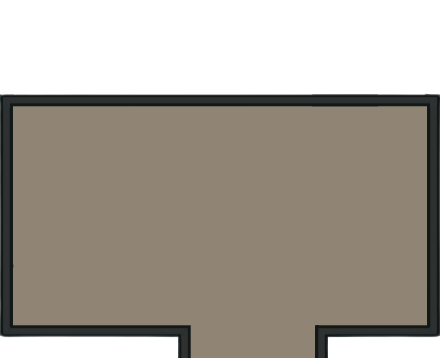
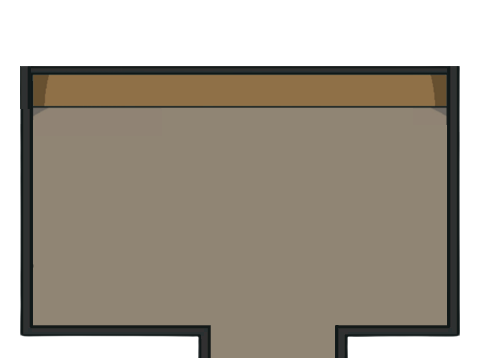
通路を作成

Changed region(s): [[0.0, 0.1844, 1.0, 0.9525], [0.6795, 0.8911, 0.7682, 1.0], [0.3841, 0.8911, 0.4432, 1.0]]

diff --git a/SuperNewRoles/Map/SetPosition.cs b/SuperNewRoles/Map/SetPosition.cs
@@ -68,7 +68,7 @@ namespace SuperNewRoles.Map
                            new Vector2[] {
                                new Vector2(-6f, 9f),new Vector2(-11.65f, 9f),new Vector2(-11.65f, 10.5f),new Vector2(-10f, 10.5f),new Vector2(-10f, 13f),new Vector2(-16f, 13f),new Vector2(-16f, 10.5f),new Vector2(-13.45f, 10.5f),new Vector2(-13.45f, 9f),new Vector2(-19f, 9f),
                                new Vector2(-19f, 13f),new Vector2(-21.7f, 13f),new Vector2(-21.7f, 16f), new Vector2(-19f, 16f), new Vector2(-19f, 20f), new Vector2(-13.45f, 20f), new Vector2(-13.45f, 18.5f), new Vector2(-16f, 18.5f), new Vector2(-16f, 15.8f), new Vector2(-10f, 15.8f),
-                               new Vector2(-10f, 18.5f), new Vector2(-11.65f, 18.5f), new Vector2(-11.65f, 20f), new Vector2(-6f, 20f),new Vector2(-6f, 9f)
+                               new Vector2(-10f, 18.5f), new Vector2(-11.65f, 18.5f), new Vector2(-11.65f, 20f), new Vector2(-6.15f, 20f),new Vector2(-6.15f, 9f)
                            };
 
                     SuperNewRolesPlugin.Logger.LogInfo("オールドア:" + ShipStatus.Instance.AllDoors.Length);
@@ -105,33 +105,45 @@ namespace SuperNewRoles.Map
 
                     SpriteRenderer CommsRoomWalls = ShipStatus.Instantiate(CafeteriaWalls).gameObject.GetComponent<SpriteRenderer>();
                     CommsRoomWalls.name = "CommsRoomWalls";
-                    CommsRoomWalls.sprite = Agartha.ImageManager.AgarthagetSprite("Room_Up");
+                    CommsRoomWalls.sprite = Agartha.ImageManager.Room_Up;
                     CommsRoomWalls.transform.position = new Vector3(-0.35f, 22.32f, 4f);
                     CommsRoomWalls.transform.localScale = new Vector3(1.41f, 1.35f, 1.35f);
 
                     SpriteRenderer O2RoomWalls = ShipStatus.Instantiate(CafeteriaWalls).gameObject.GetComponent<SpriteRenderer>();
                     O2RoomWalls.name = "O2RoomWalls";
-                    O2RoomWalls.sprite = Agartha.ImageManager.AgarthagetSprite("Room_Up");
+                    O2RoomWalls.sprite = Agartha.ImageManager.Room_Up;
                     O2RoomWalls.transform.position = new Vector3(-0.4f, 8.7f, 4f);
                     O2RoomWalls.transform.localScale = new Vector3(1.7f, 1.25f, 1.35f);
 
                     SpriteRenderer MedBayRoomWalls = ShipStatus.Instantiate(CafeteriaWalls).gameObject.GetComponent<SpriteRenderer>();
                     MedBayRoomWalls.name = "MedBayRoomWalls";
-                    MedBayRoomWalls.sprite = Agartha.ImageManager.AgarthagetSprite("Room_Up");
-                    MedBayRoomWalls.transform.position = new Vector3(-0.4f, 13.25f, 4f);
-                    MedBayRoomWalls.transform.localScale = new Vector3(1.7f, -1.3f, 1.35f);
+                    MedBayRoomWalls.sprite = Agartha.ImageManager.Room_Down;
+                    MedBayRoomWalls.transform.position = new Vector3(-0.4f, 13.35f, 4f);
+                    MedBayRoomWalls.transform.localScale = new Vector3(1.7f, 1.3f, 1.35f);
 
                     SpriteRenderer ToolRoomWalls = ShipStatus.Instantiate(CafeteriaWalls).gameObject.GetComponent<SpriteRenderer>();
                     ToolRoomWalls.name = "ToolRoomWalls";
-                    ToolRoomWalls.sprite = Agartha.ImageManager.AgarthagetSprite("Room_Up");
-                    ToolRoomWalls.transform.position = new Vector3(-0.3f, -0.35f, 4f);
-                    ToolRoomWalls.transform.localScale = new Vector3(1.75f, -1.2f, 1.35f);
+                    ToolRoomWalls.sprite = Agartha.ImageManager.Room_Down;
+                    ToolRoomWalls.transform.position = new Vector3(-0.3f, -0.25f, 4f);
+                    ToolRoomWalls.transform.localScale = new Vector3(1.75f, 1.2f, 1.35f);
 
                     SpriteRenderer ElectricalRoomWalls = ShipStatus.Instantiate(CafeteriaWalls).gameObject.GetComponent<SpriteRenderer>();
                     ElectricalRoomWalls.name = "ElectricalRoomWalls";
                     ElectricalRoomWalls.sprite = Agartha.ImageManager.AgarthagetSprite("Room_Electrical");
                     ElectricalRoomWalls.transform.position = new Vector3(21.5f, 16f, 4f);
                     ElectricalRoomWalls.transform.localScale = new Vector3(1.5f, 1.23f, 1.35f);
+
+                    SpriteRenderer Aisle1Walls = ShipStatus.Instantiate(CafeteriaWalls).gameObject.GetComponent<SpriteRenderer>();
+                    Aisle1Walls.name = "Aisle1Walls";
+                    Aisle1Walls.sprite = Agartha.ImageManager.AgarthagetSprite("Aisle1");
+                    Aisle1Walls.transform.position = new Vector3(2.8f, 18.6f, 5f);
+                    Aisle1Walls.transform.localScale *= 2.6f;
+
+                    SpriteRenderer Aisle2Walls = ShipStatus.Instantiate(Aisle1Walls).gameObject.GetComponent<SpriteRenderer>();
+                    Aisle2Walls.name = "Aisle2Walls";
+                    Aisle2Walls.sprite = Agartha.ImageManager.AgarthagetSprite("Aisle1");
+                    Aisle2Walls.transform.position = new Vector3(3.26f, 5.75f, 5f);
+                    Aisle2Walls.transform.localScale *= 1.1f;
 
                     MiraShip.FindChild("CloudGen").gameObject.SetActive(false);
 
@@ -224,6 +236,7 @@ namespace SuperNewRoles.Map
                     },0.01f,"ChangeBackgroundColor");
                     Agartha.Patch.SetTasksClass.ShipSetTask();
                     Agartha.Patch.ChangeMapCounter.Change(MiraShip);
+                    Agartha.Patch.SetPosition.SetDoor();
                 }
             }
         }

diff --git a/SuperNewRoles/Map/Agartha/Patch/SetPosition.cs b/SuperNewRoles/Map/Agartha/Patch/SetPosition.cs
@@ -11,18 +11,39 @@ namespace SuperNewRoles.Map.Agartha.Patch
 {
     public static class SetPosition
     {
+        public static PlainDoor CreateDoor(Vector3 position,Vector3? scale = null,int id = -1,int index = 3)
+        {
+            if (id == -1)
+            {
+                id = GetDoorAvailableId();
+            }
+            if (scale == null)
+            {
+                scale = new Vector3(1,1,1);
+            }
+            PlainDoor door = GameObject.Instantiate(MapLoader.Airship.AllDoors[index]);
+            door.transform.localScale = (Vector3)scale;
+            door.transform.position = position;
+            door.Id = id;
+
+            return door;
+        }
         public static void SetDoor()//Transform Miraship)
         {
-            PlainDoor door = GameObject.Instantiate(MapLoader.Airship.AllDoors[3]);
-            door.transform.localScale *= 0.5f;
-            door.transform.position = PlayerControl.LocalPlayer.transform.position;
-            IEnumerator change()
+            List<PlainDoor> doors = new List<PlainDoor>();
+            doors.Add(CreateDoor(new Vector3(13.2f, 20.4f, 0.1f),new Vector3(0.85f,0.75f,0.75f)));
+            doors.Add(CreateDoor(new Vector3(0.03f, 20.5f, 0.1f),new Vector3(0.95f,0.8f,1f)));
+            ShipStatus.Instance.AllDoors = doors.ToArray();
+        }
+        public static int GetDoorAvailableId()
+        {
+            var id = 0;
+            if (ShipStatus.Instance.AllDoors.Count == 0) return 0;
+            while (true)
             {
-                yield return new WaitForSeconds(1);
-                door.SetDoorway(false);
+                if (ShipStatus.Instance.AllDoors.All(v => v.Id != id)) return id;
+                id++;
             }
-            AmongUsClient.Instance.StartCoroutine(change());
-            //door.GetComponent<SpriteAnim>().ima = ImageManager.AgarthagetSprite("Door_Open");
         }
         public static void SetObject(Transform MiraShip)
         {

diff --git a/SuperNewRoles/Map/Agartha/Patch/MiniMapPatch.cs b/SuperNewRoles/Map/Agartha/Patch/MiniMapPatch.cs
@@ -13,7 +13,6 @@ namespace SuperNewRoles.Map.Agartha.Patch
         public static Transform MapObject;
         public static void MinimapChange(MapBehaviour __instance)
         {
-            Agartha.Patch.SetPosition.SetDoor();//MiraShip);
             SuperNewRolesPlugin.Logger.LogInfo("マップ変更処理");
             MapObject = GameObject.Find("HqMap(Clone)").transform;
             //GameObject.Find("HqMap(Clone)").SetActive(false);
@@ -96,9 +95,8 @@ namespace SuperNewRoles.Map.Agartha.Patch
 
             RoomNames.FindChild("Cafeteria").gameObject.SetActive(false);
             RoomNames.FindChild("Greenhouse").gameObject.SetActive(false);
-            Agartha.Patch.SetTasksClass.ShipSetTask();
-            //Camera.main.orthographicSize = Camera.main.orthographicSize * 7;
-            //GameObject.Find("Main Camera").transform.FindChild("ShadowQuad").gameObject.SetActive(false);
+            Camera.main.orthographicSize = Camera.main.orthographicSize * 7;
+            GameObject.Find("Main Camera").transform.FindChild("ShadowQuad").gameObject.SetActive(false);
         }
     }
 }

diff --git a/SuperNewRoles/Map/Agartha/ImageManager.cs b/SuperNewRoles/Map/Agartha/ImageManager.cs
@@ -147,6 +147,26 @@ namespace SuperNewRoles.Map.Agartha
                 return m_Task_FixWiring_BackGround;
             }
         }
+        private static Sprite m_Room_Up;
+        public static Sprite Room_Up
+        {
+            get
+            {
+                if (m_Room_Up != null) return m_Room_Up;
+                m_Room_Up = ModHelpers.loadSpriteFromResources("SuperNewRoles.Resources.Agartha.Room_Up.png", 115f);
+                return m_Room_Up;
+            }
+        }
+        private static Sprite m_Room_Down;
+        public static Sprite Room_Down
+        {
+            get
+            {
+                if (m_Room_Down != null) return m_Room_Down;
+                m_Room_Down = ModHelpers.loadSpriteFromResources("SuperNewRoles.Resources.Agartha.Room_Down.png", 115f);
+                return m_Room_Down;
+            }
+        }
         private static Dictionary<string, Sprite> Datas = new Dictionary<string,Sprite>();
         public static Sprite AgarthagetSprite(string id)
         {
